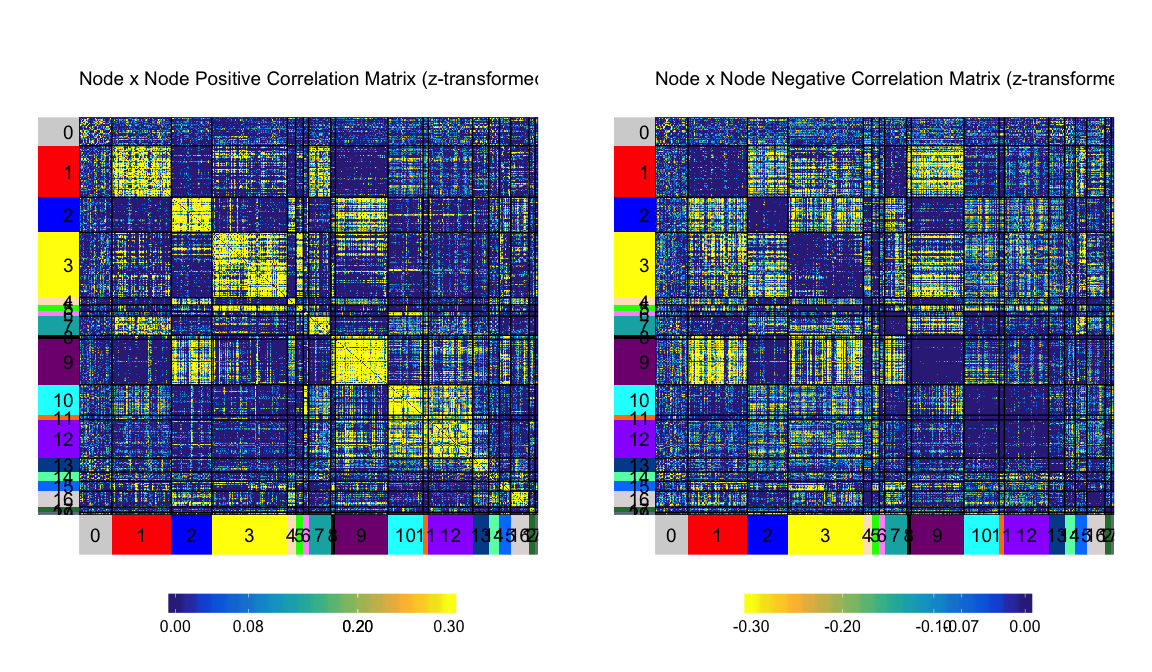
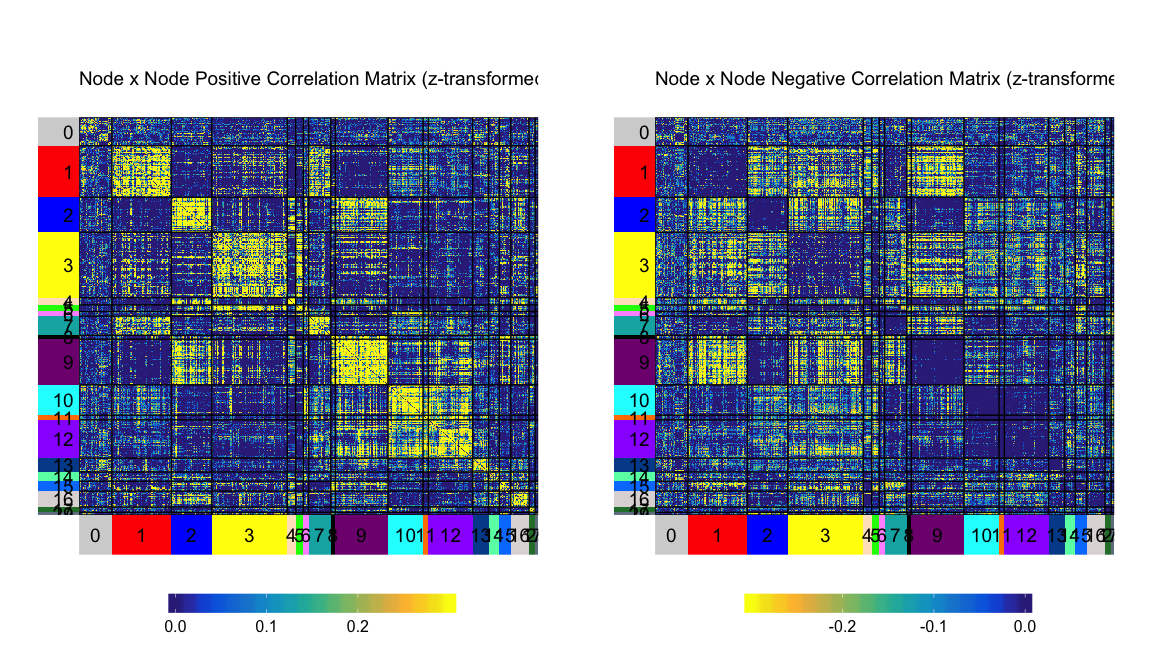
Add netowrk visualization to cifti

diff --git a/cifti/cifti_MSC_r.md b/cifti/cifti_MSC_r.md
@@ -1,7 +1,7 @@
 CIFTI in R, MSC single-subject
 ================
 Micalea Chan
-2/14/2019
+3/5/2019
 
 Read in cifti files
 -------------------
@@ -10,6 +10,8 @@ Read in cifti files
     -   Individual specific parcellation and community (network) are loaded.
 
 ``` r
+cii <- read_cifti(mscfile, drop_data = FALSE, trans_data = T) 
+
 # Make brainstructure index
 cii$brainstructureindex <- as.matrix(NA, dim(cii$data)[1])
 for(i in 1:length(cii$BrainModel)){
@@ -20,10 +22,11 @@ for(i in 1:length(cii$BrainModel)){
   
 }
 
-
+# Load parcels
 parcel <- read_cifti(parcel_file)
 parcel <- as.matrix(parcel$data)
 
+# Load community
 comm <- read_cifti(comm_file)
 comm <- as.matrix(comm$data)
   
@@ -97,6 +100,9 @@ tp <- matrix(0, length(u_parcel), sum(tmask))
 for(i in 1:length(u_parcel)){               
   tp[i,]<- colMeans(ctmask[which(parcel==u_parcel[i]),])
 }
+
+# order by parcel number
+tp <- tp[order(u_parcel),]
 ```
 
 Plot processed mean time series of each node
@@ -113,7 +119,7 @@ superheat::superheat(tp,
                      title="Mean Time series of each parcel")
 ```
 
-![](cifti_MSC_r_files/figure-markdown_github/unnamed-chunk-3-1.png)
+![](cifti_MSC_r_files/figure-markdown_github/tpmat-1.png)
 
 Correlation Matrix (z-transformed)
 ----------------------------------
@@ -134,7 +140,7 @@ superheat::superheat(z,
                      title="Node x Node Correlation Matrix (z-transformed)")
 ```
 
-![](cifti_MSC_r_files/figure-markdown_github/unnamed-chunk-4-1.png)
+![](cifti_MSC_r_files/figure-markdown_github/unnamed-chunk-3-1.png)
 
 Correlation Matrix, nodes ordered by systems
 --------------------------------------------
@@ -142,12 +148,12 @@ Correlation Matrix, nodes ordered by systems
 ### Setup System Color for Plot
 
 ``` r
-parlabel <- data.frame(parcel_num=u_parcel, community=NA)
+parlabel <- data.frame(parcel_num=sort(u_parcel), community=NA)
 plotlabel <- read.csv("../data/systemlabel_MSC.txt", header=F,
                           col.names = c("community","comm_label","color","comm_shortlabel"))
 
 for(i in 1:length(u_parcel)){
-  parlabel$community[i] <- unique(comm[which(parcel==u_parcel[i])])
+  parlabel$community[i] <- unique(comm[which(parcel==sort(u_parcel)[i])])
 }
 ```
 
@@ -165,7 +171,7 @@ superheat::superheat(X = z,
                      title="Parcel x Parcel Correlation Matrix (z-transformed)")
 ```
 
-![](cifti_MSC_r_files/figure-markdown_github/unnamed-chunk-6-1.png)
+![](cifti_MSC_r_files/figure-markdown_github/unnamed-chunk-5-1.png)
 
 Splitting Negative and Positive
 -------------------------------
@@ -210,3 +216,29 @@ gridExtra::grid.arrange(ggplotify::as.grob(ss_pos$plot), ggplotify::as.grob(ss_n
 ```
 
 ![](cifti_MSC_r_files/figure-markdown_github/pn_matrices-1.png)
+
+Plot Positive Netowrk Graph (requires "igraph")
+-----------------------------------------------
+
+``` r
+## Threshold matrix to 4%
+z4 <- z_pos
+z4[z < quantile(z, 0.96)] <- 0
+net <- graph.adjacency(adjmatrix = z4, mode = "undirected", diag = F, weighted = T)
+
+parlabel$id <- 1:nrow(parlabel)
+parlabel$color <- NA
+u_comm <- unique(parlabel$community)
+for(i in u_comm){
+  parlabel$color[parlabel$community==i] <- as.character(plotlabel$color[plotlabel$community==i])
+}
+
+V(net)$id <- parlabel$id
+V(net)$community <- parlabel$community
+net <- simplify(net, remove.multiple = F, remove.loops = T) 
+
+plot(net, layout=layout_with_fr, vertex.label=NA, vertex.size=5, 
+     vertex.color=parlabel$color, alpha=.6)
+```
+
+![](cifti_MSC_r_files/figure-markdown_github/unnamed-chunk-7-1.png)
